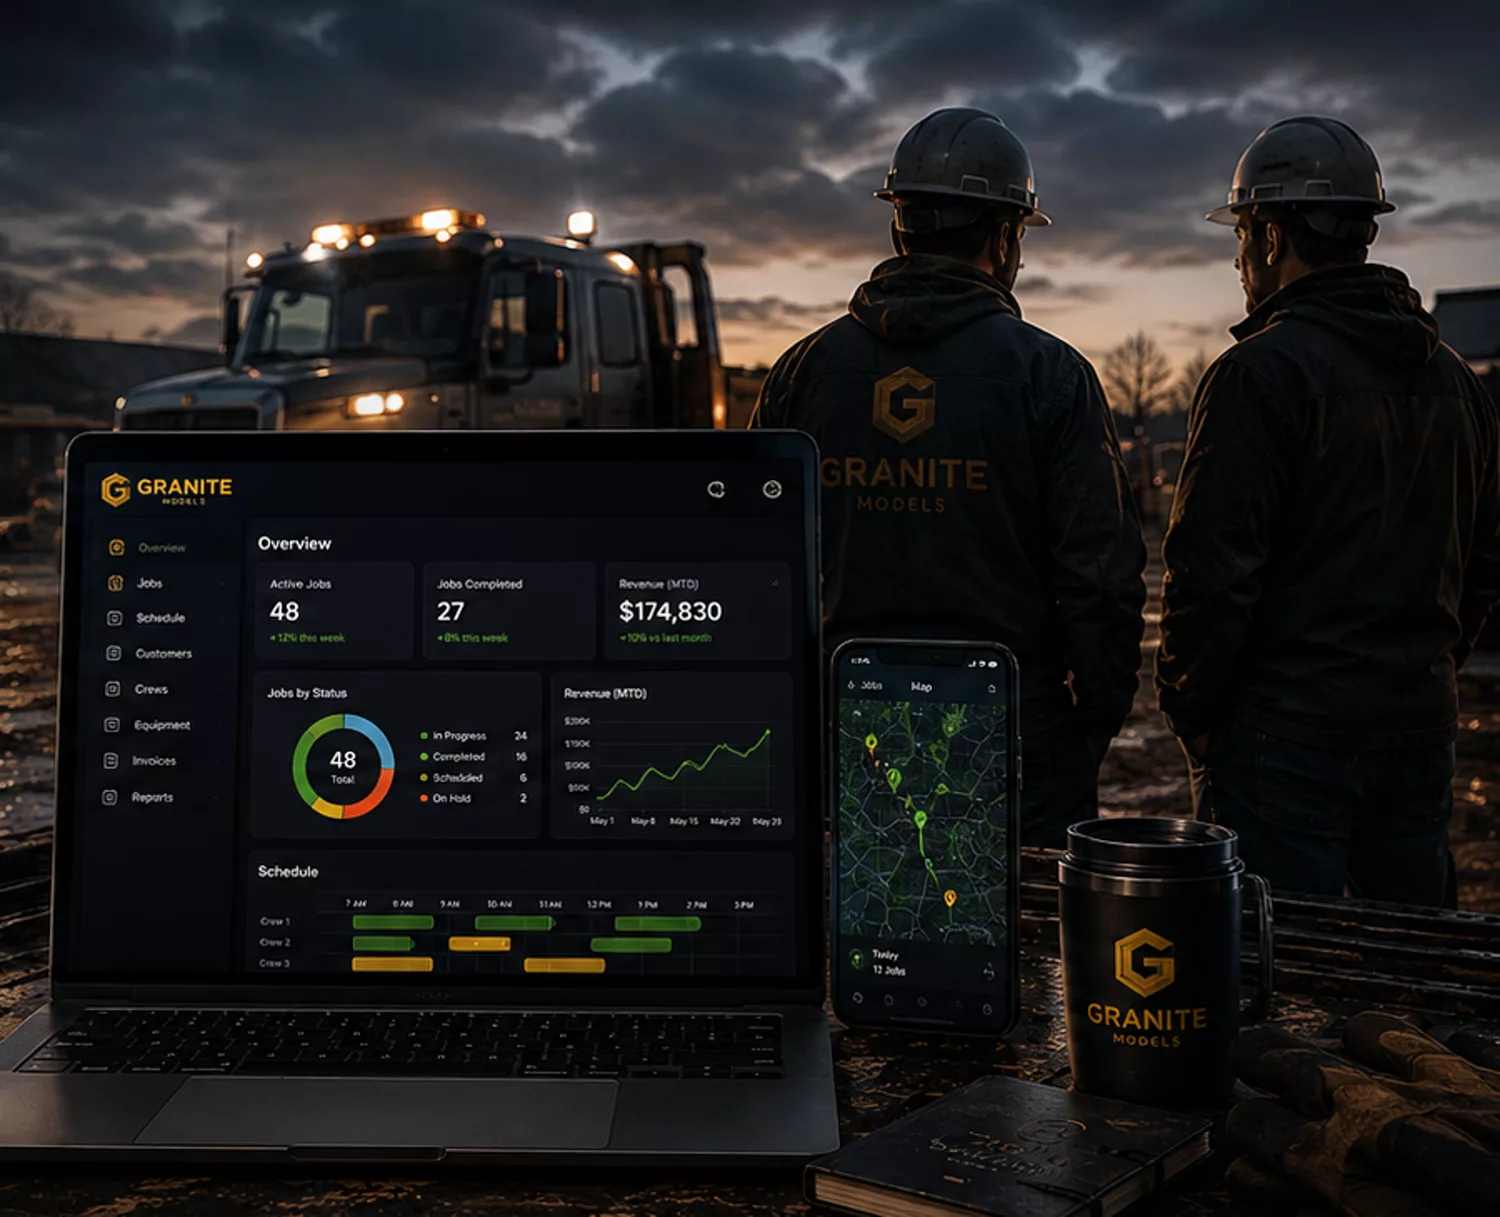
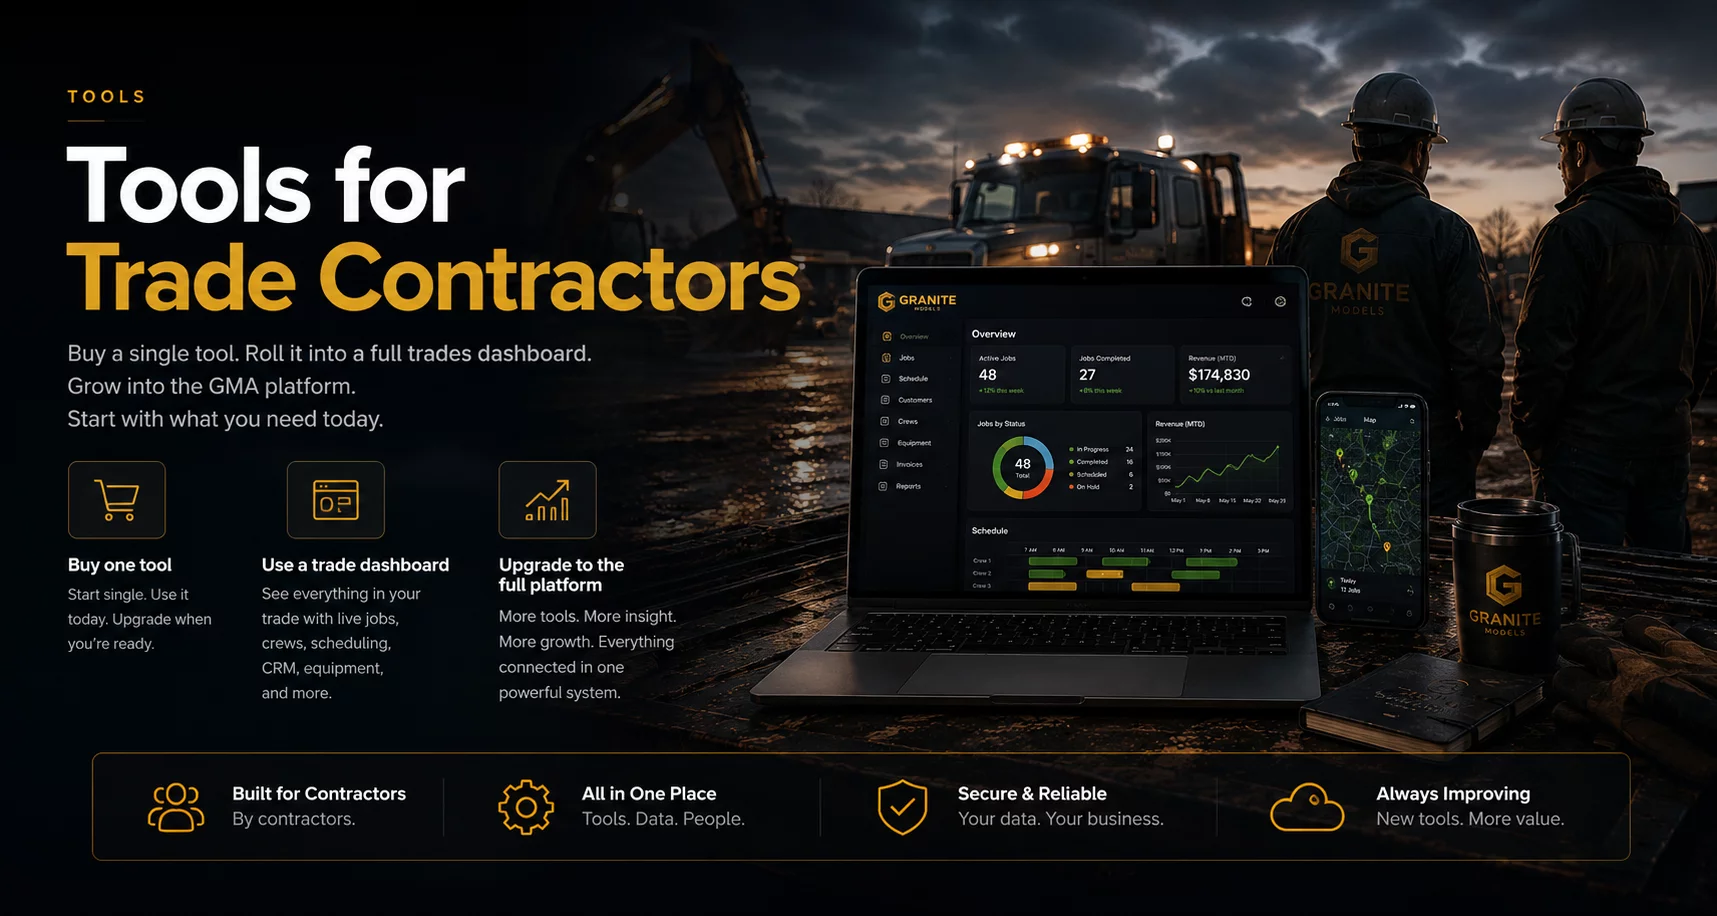
Switch accent orange->gold sitewide; Tools hero = full designed image with clickable hotspots + working buttons

diff --git a/templates/tools.html b/templates/tools.html
@@ -7,23 +7,22 @@
 {% block content %}
 <div class="tos">
 
-  <!-- ═══ HERO ═══ -->
-  <section class="tos-hero">
-    {{ img_slot('tools-hero',
-       'Trade tools hero: contractors at a jobsite at dusk with a truck and equipment, and a laptop showing the Granite Models dashboard.',
-       'tos-hero-bg') }}
-    <div class="tos-hero-inner">
-      <p class="tos-eyebrow" style="color:var(--gold)">Trade Tools &amp; Dashboards</p>
-      <h1 class="tos-hero-h1">Tools for <span style="color:var(--gold)">Trade Contractors</span></h1>
-      <p class="tos-hero-sub">
-        Buy a single tool, run a full trade dashboard, or grow into the platform. Pay monthly. Cancel anytime.
-      </p>
-      <div class="tos-cta-row">
-        <a href="#tools" class="tos-btn tos-btn--primary">Browse Tools</a>
-        <a href="#dashboards" class="tos-btn tos-btn--steel">See Dashboards</a>
-      </div>
-    </div>
+  <!-- ═══ HERO (full designed image + clickable hotspots over the 3 cards) ═══ -->
+  <section class="tos-hero-img">
+    <img src="/static/img/tools-hero.webp" class="tos-hero-img-full"
+         alt="Tools for Trade Contractors — buy a single tool, use a trade dashboard, or grow into the GMA platform.">
+    <!-- transparent clickable areas over the three cards drawn on the image -->
+    <a class="tos-hot" href="#tools"      style="left:4%;top:56%;width:13%;height:22%;" aria-label="Buy one tool"></a>
+    <a class="tos-hot" href="#dashboards" style="left:18%;top:56%;width:13%;height:22%;" aria-label="Use a trade dashboard"></a>
+    <a class="tos-hot" href="/pricing"    style="left:32%;top:56%;width:13%;height:22%;" aria-label="Upgrade to the full platform"></a>
   </section>
+  <div class="tos">
+    <div class="tos-cta-row tos-cta-center" style="padding:22px 32px 4px;">
+      <a href="#tools" class="tos-btn tos-btn--primary">Browse Tools</a>
+      <a href="#dashboards" class="tos-btn tos-btn--steel">See Dashboards</a>
+      <a href="/demo-videos" class="tos-btn tos-btn--ghost">Watch Demos</a>
+    </div>
+  </div>
 
   <!-- ═══ TOOLS (TOP HALF) ═══ -->
   <section class="tos-section" id="tools">

diff --git a/static/styles.css b/static/styles.css
@@ -632,8 +632,8 @@ img { max-width: 100%; display: block; }
   --tos-panel-2:   #181d26;
   --tos-line:      rgba(255,255,255,0.08);
   --tos-line-2:    rgba(255,255,255,0.14);
-  --tos-orange:    #ff6b1a;
-  --tos-orange-dk: #e85d10;
+  --tos-orange:    #d4a745;
+  --tos-orange-dk: #b88a2e;
   --tos-steel:     #4a90d9;
   --tos-text:      #eef1f5;
   --tos-text-2:    #9aa3b0;
@@ -698,13 +698,15 @@ img { max-width: 100%; display: block; }
 .tos-hero { position: relative; padding: 0; overflow: hidden; border-bottom: 1px solid var(--tos-line); }
 .tos-hero-bg {
   position: absolute; inset: 0; min-height: 100%; border: none; border-radius: 0;
-  z-index: 0; opacity: 0.5;
+  z-index: 0;
 }
+img.tos-hero-bg { opacity: 1; object-fit: cover; object-position: right center; }
+.tos-imgph.tos-hero-bg { opacity: 0.5; }
 .tos-hero-bg .tos-imgph-tag, .tos-hero-bg small { position: relative; }
 .tos-hero-inner {
   position: relative; z-index: 1; max-width: 1180px; margin: 0 auto;
   padding: 96px 32px 88px;
-  background: linear-gradient(90deg, rgba(10,12,16,0.92) 0%, rgba(10,12,16,0.78) 55%, rgba(10,12,16,0.45) 100%);
+  background: linear-gradient(90deg, rgba(8,10,14,0.97) 0%, rgba(8,10,14,0.86) 38%, rgba(8,10,14,0.55) 70%, rgba(8,10,14,0.30) 100%);
 }
 .tos-eyebrow {
   font-family: var(--font-display); font-size: 13px; font-weight: 700; letter-spacing: 4px;
@@ -767,6 +769,12 @@ img { max-width: 100%; display: block; }
 .tos-tool-card .tos-btn { margin-top: 12px; }
 .tos-btn--sm { padding: 9px 18px; font-size: 13px; }
 .tos-coming { font-size: 13px; color: var(--tos-text-3); margin-top: 16px; }
+
+/* ═══ Full designed image as hero, with clickable hotspots over drawn buttons ═══ */
+.tos-hero-img { position: relative; line-height: 0; background: var(--gm-black, #06060b); }
+.tos-hero-img-full { width: 100%; display: block; }
+.tos-hot { position: absolute; display: block; z-index: 3; border-radius: 8px; }
+.tos-hot:hover { box-shadow: 0 0 0 2px var(--gold) inset; background: rgba(212,167,69,0.08); }
 
 /* — 4 · COMMAND CENTER — */
 .tos-cc { background: var(--tos-panel); border-top: 1px solid var(--tos-line); border-bottom: 1px solid var(--tos-line); border-radius: 0; }